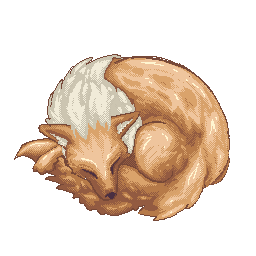
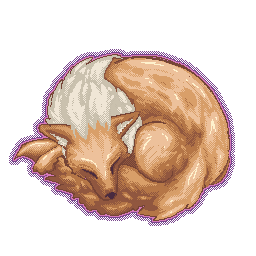
Crediting for music.

Changed region(s): [[0.0312, 0.1875, 0.9375, 0.9062]]

diff --git a/index.html b/index.html
@@ -66,5 +66,6 @@ body {
 <img id="drbPortrait" src="https://mistakenot4892.github.io/dorobouveryextremelygood1000hourportraitbest.png">
 <audio id="drbTheme" controls loop src="https://mistakenot4892.github.io/home_piano.ogg"></audio>
 <audio id="drbTheme2" controls loop src="https://mistakenot4892.github.io/home_drop.ogg"></audio>
+<div id="drbCredit"><a href="https://music.youtube.com/watch?v=tXAB9_PZzI8">I AM YOUR BEAST OST - HOME / by rj lake</a></div>
 </body>
 </html>

diff --git a/doro.js b/doro.js
@@ -48,6 +48,16 @@ body {
     drop-shadow(0 0 8px black)
     drop-shadow(0 0 12px dodgerblue);
 }
+#drbCredit{
+  color: #323232;
+  position: absolute;
+  bottom: 1.5rem;
+  top: calc(100vh - 3rem);
+  right: 0;
+  left: 0;
+  z-index: 1000;
+  text-align: right;
+}
 @keyframes shake {
   0% { transform: translate(1px, 1px) rotate(0deg); }
   25% { transform: translate(-3px, 0px) rotate(1deg); }
